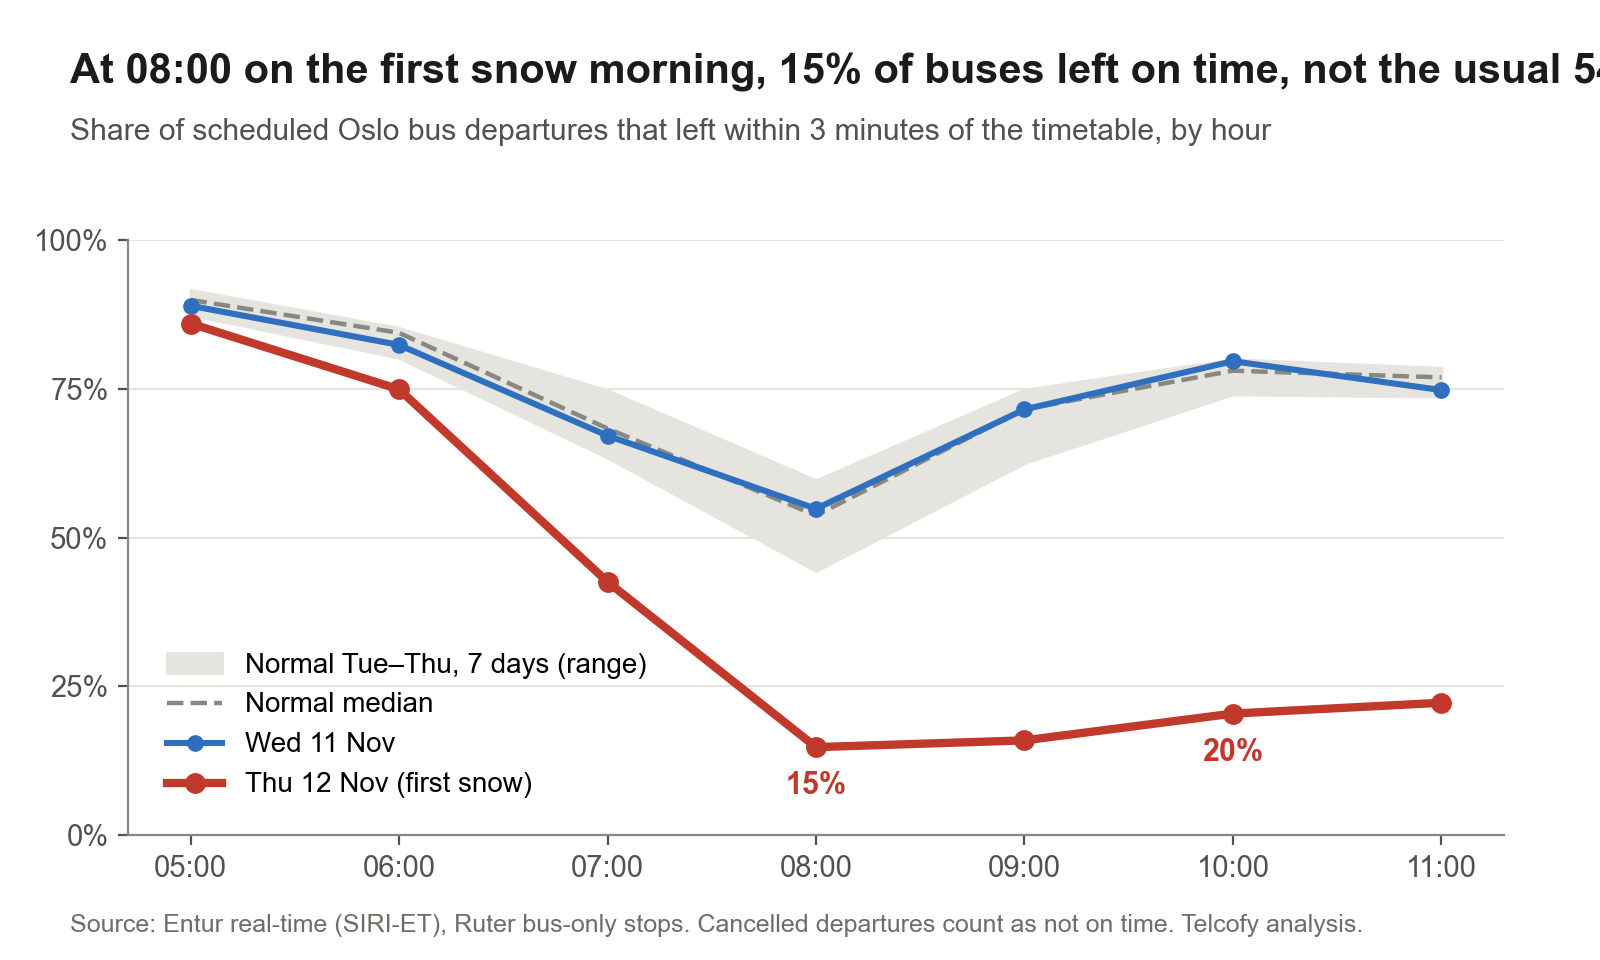
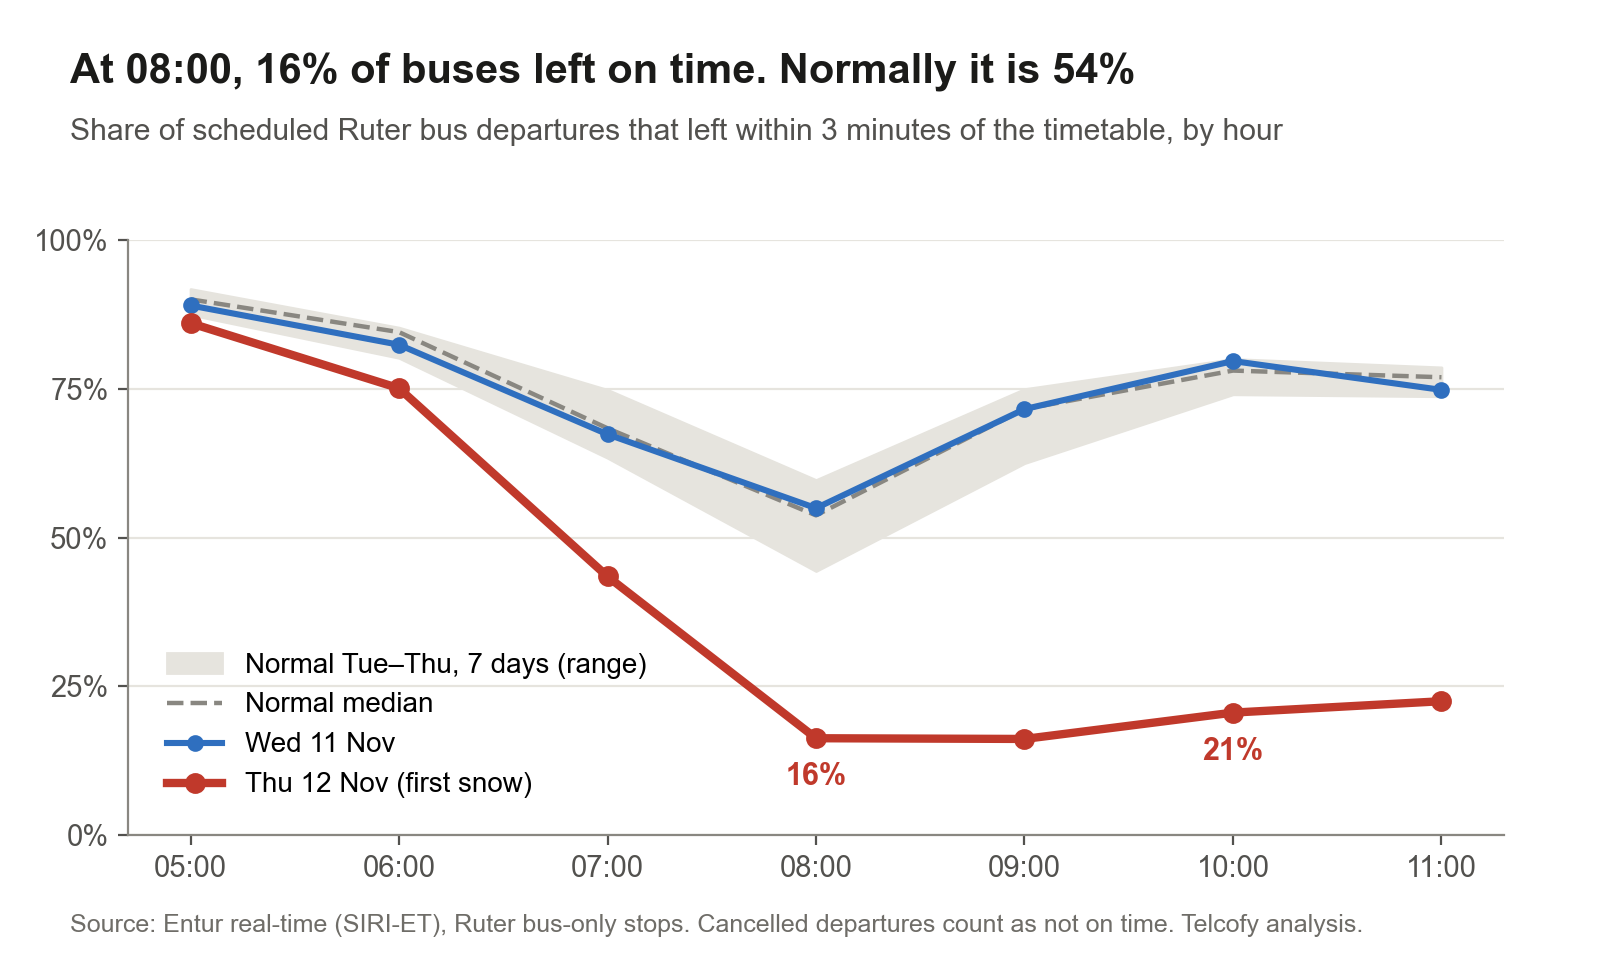
Snow post: corrected cancellation rule, city vs regional split, route map
After an independent review of the numbers: a stop now counts as served whenever a
real departure was recorded (buses pulled mid-route had the whole trip flagged
cancelled), so morning cancellations are about 10%, not 15%. Adds the city vs
regional split, a map of the worst-hit routes in and into Oslo, Ruter's stated
reason via Aftenposten, and fixes the clipped figure title and the normal bar.

diff --git a/blog/2026-11-13-oslo-buses-first-snow.md b/blog/2026-11-13-oslo-buses-first-snow.md
@@ -5,41 +5,49 @@ authors: [oslo-research-team]
 tags: [mobility-science, technology]
 date: 2026-11-13
 image: /2026-11-13-oslo-buses-first-snow/00-header.jpg
-description: "On the first snow morning, 15% of Oslo's buses left on time at 08:00, against about 54% on a normal day, and one in seven morning departures was cancelled."
+description: "On the first proper snow morning, 16% of Ruter's buses left on time at 08:00, against 54% on a normal day, and more than one in five departures on Oslo's city lines was cancelled."
 ---
 
 ![Two red Oslo buses at a snowy bus stop](../static/2026-11-13-oslo-buses-first-snow/00-header.jpg)
 *A file photo, not from 12 November: Tonsenhagen bus stop, February 2011. Photo: [Aslak55](https://commons.wikimedia.org/wiki/File:Tonsenhagen_bussholdeplass,_februar_2011.JPG), [CC BY 3.0](https://creativecommons.org/licenses/by/3.0), via Wikimedia Commons; cropped.*
 
-Thursday 12 November brought the first snow of the season to Oslo. We compared the morning rush with the day before and with seven normal Tuesdays to Thursdays this autumn, using Entur's real-time records for Ruter's buses.
+Thursday 12 November brought the winter's first proper snowfall to Oslo. We compared the morning rush on Ruter's buses with the day before and with seven normal Tuesdays to Thursdays this autumn, using Entur's real-time records.
 
-Between 07:00 and 09:00, 29% of scheduled departures left on time. The day before it was 61%, and on a normal day 62%.
+Between 07:00 and 09:00, 30% of scheduled bus departures left on time. The day before it was 61%, and on a normal day 62%.
 
 <!-- truncate -->
 
-![On-time share of scheduled Oslo bus departures by hour: 12 November against 11 November and the range of seven normal days](../static/2026-11-13-oslo-buses-first-snow/01-hourly.png)
+![On-time share of scheduled Ruter bus departures by hour: 12 November against 11 November and the range of seven normal days](../static/2026-11-13-oslo-buses-first-snow/01-hourly.png)
 
-At 08:00, the hardest hour of a normal morning, 15% of buses left within three minutes of the timetable. A normal day gives about 54%, and none of the seven normal days came below 44%. The morning did not recover: by 10:00 and 11:00, 20% and 22% left on time, against 78% and 77% normally.
+At 08:00, the hardest hour of a normal morning, 16% of buses left within three minutes of the timetable. A normal day gives about 54%, and none of the seven normal days came below 44%. The morning did not recover: at 10:00 and 11:00, 21% and 22% left on time, against 78% and 77% normally.
 
-## One in seven morning buses never left
+## City lines were cancelled, regional lines ran late
 
-![What happened to each scheduled bus departure between 07:00 and 09:00: on time, late, cancelled](../static/2026-11-13-oslo-buses-first-snow/02-outcomes.png)
+![What happened to each scheduled bus departure between 07:00 and 09:00, for normal days, 11 November, and 12 November split into city and regional lines](../static/2026-11-13-oslo-buses-first-snow/02-outcomes.png)
 
-Of 60,405 departures scheduled between 07:00 and 09:00, 8,765 (15%) were cancelled. On a normal day it is under 0.2%. A further 17% left more than ten minutes late, against about 4% normally. After 09:00 the cancellations grew: they were 44% of departures between 09:00 and 12:00.
+Across Ruter's area, about one in ten departures between 07:00 and 09:00 never left the stop, against almost none on a normal day. Another 19% left more than ten minutes late, against about 4% normally. The two kinds of line had different mornings. On Oslo's city lines (numbers 1 to 99), 22% of departures were cancelled. Regional lines from Akershus mostly ran, but one in five departures left more than ten minutes late. After 09:00 the cancellations grew, to 42% of all departures between 09:00 and 12:00.
 
-The cancellations were concentrated. Of 278 lines, 12 lost half or more of their morning departures, while 232 lost less than 5%.
+## The worst-hit routes
 
-This is one morning. We cannot say why individual departures were cancelled, and we have not tied the result to any particular weather measurement.
+![Map of Ruter bus routes in and into Oslo, coloured by the share of morning departures cancelled or more than ten minutes late on 12 November](../static/2026-11-13-oslo-buses-first-snow/03-map.png)
+
+Of 78 routes in or into Oslo with enough buses to rate, 11 had half or more of their morning departures cancelled or more than ten minutes late. Nine of the 11 are city lines. Ruter told [Aftenposten](https://www.aftenposten.no/norge/i/pM6JEX/mer-enn-halvparten-av-bussavgangene-i-oslo-er-innstilt) that it took buses off some lines because the snowploughs were stuck in the same queues; each of the nine lines it named lost between a fifth and a half of its morning departures to cancellations.
+
+This is one morning, measured against seven normal days. We have not tied it to a weather measurement.
 
 <details>
 <summary>How we know</summary>
 
-The data is Entur's real-time archive (SIRI-ET), for Ruter's bus-only stops: 7,037 stops, with metro, tram and ferry stops left out. We count each scheduled departure once, by its scheduled hour in Oslo time. A departure is on time if it left between 15 seconds early and 3 minutes late. Cancelled departures stay in the total, so they count as not on time. Counting only the buses that ran would flatter the snow day: of those that ran, 36% were on time between 07:00 and 09:00, against 62% normally.
+The data is Entur's real-time archive (SIRI-ET) for Ruter's buses, at Ruter's bus-only stops: 7,037 stops, with metro, tram and ferry stops left out. It covers Ruter's whole area, Oslo and Akershus. We count each scheduled departure from a stop once, by its scheduled hour in Oslo time. There is one record per departure; we found no duplicates.
 
-The normal range is seven Tuesdays to Thursdays between 27 October and 10 November, shown as the grey band and the median. The weakest of them, 27 October, had the lowest on-time share (54%) and the most departures more than ten minutes late (10%), and it is kept in the band. Even so, 12 November sits far below every one of them. Wednesday 11 November is shown separately; its punctuality fell within the normal band.
+A departure is on time if it left between 15 seconds early and 3 minutes late. It counts as served if a real departure time was recorded, and as cancelled if it was flagged cancelled and never left. This matters on a day like this. When a bus was taken off the road mid-route, the whole trip was flagged cancelled, although it had already served its first stops; counting the flag alone would put cancellations at 15%, not 10%. Cancelled departures stay in the total, so they count as not on time. Of the buses that did leave, 36% were on time, against 62% normally.
 
-Wednesday's data holds about 7% fewer scheduled departures than usual in the 07:00 hour, and slightly more cancellations (0.6% between 07:00 and 09:00). About 5% of the 12 November departures between 07:00 and 09:00 were neither cancelled nor given a recorded time, and these are counted as not on time. We did not apply the stop filter from our national bus post here.
+About 5% of the 12 November departures between 07:00 and 09:00 have no final record: most were last predicted to be well over ten minutes late. They count as not on time. If every one of them had been on time, the on-time share would still be only 35%.
 
-Entur's archive loads overnight, so these figures are the day-after record of Thursday morning. This is a snapshot of one morning, not a statistical result.
+The normal range is seven Tuesdays to Thursdays between 27 October and 10 November. The weakest of them, 27 October, had the lowest on-time share (54%) and the most departures more than ten minutes late (10%), and it is kept in the range. The record for Wednesday 11 November is incomplete (some lines are missing, and the 07:00 hour holds about 7% fewer departures than usual), so it is shown for comparison only; its punctuality was normal.
+
+City lines are route numbers 1 to 99, including their E and X variants; regional lines are 100 and up. For the map, a route is "in or into Oslo" if it has at least one stop in Oslo municipality, night buses and rail-replacement buses left out. Each route is rated on all its stops, with at least six trips between 07:00 and 09:00 on 12 November. Routes with fewer are drawn dashed. Each route is drawn along its usual path in Ruter's September 2026 timetable.
+
+Entur's archive loads overnight, so these figures are the day-after record of Thursday morning.
 
 </details>
